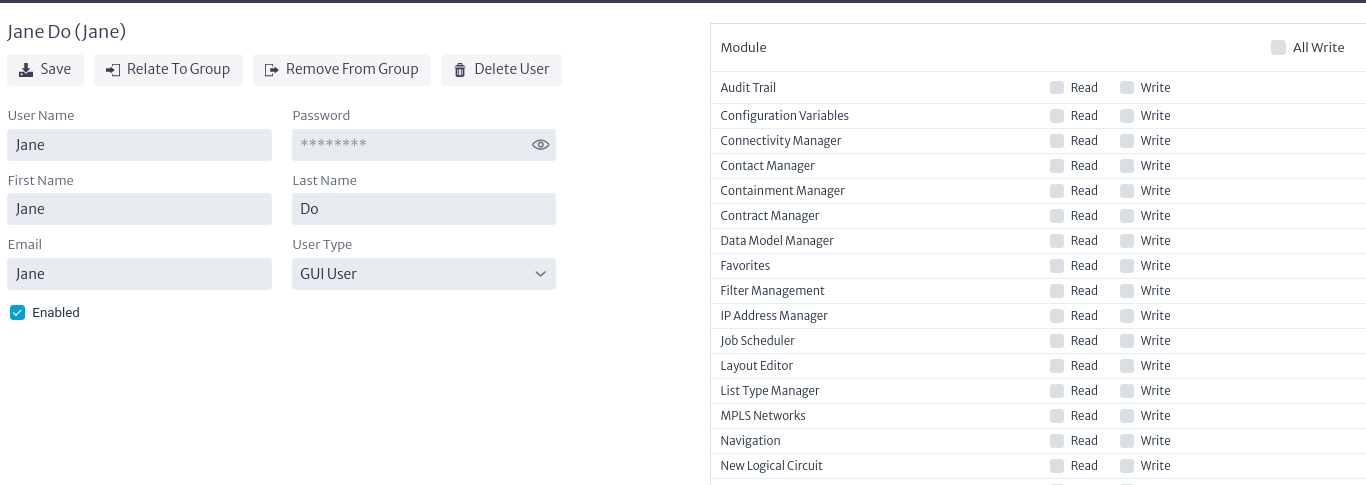
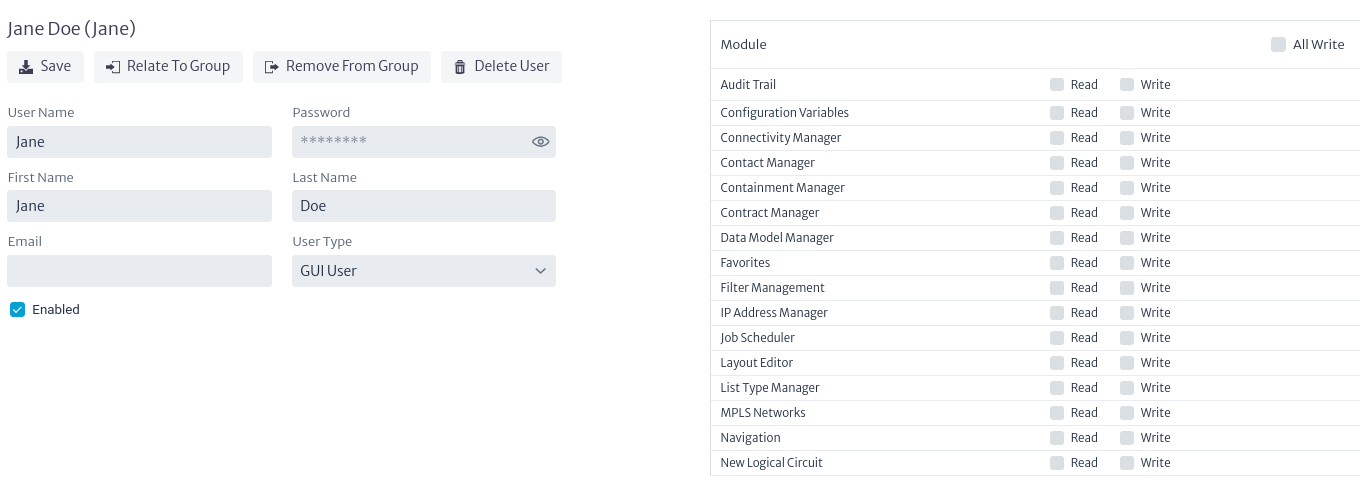
Fix titles in template manager and user manager modules, fix examples and types of user in user manager, add topology module to summary

diff --git a/user/en/src/userman/README.md b/user/en/src/userman/README.md
@@ -19,7 +19,7 @@ Groups allow for the aggregation of users to simplify their management and admin
 
 ### Groups Actions
 
-#### Create new groups
+#### Creating new groups
 
 To create a new group, use the![Template Module](images/btn_new_group.png)button in the main window of the module. This will open the group creation window, as shown in Figure 3. Here, you will need to enter the name and description of the group. It is advisable to use a descriptive name, as this will be the name displayed in the list of available groups.
 
@@ -34,7 +34,7 @@ Once created, the group will appear in the list of available groups within the a
 | ***Figure 4.** Group list* |
 
 
-#### Delete group
+#### Deleting groups
 To delete a group, use the![Btn Delete Groups](images/btn_delete_groups.png)button found in the group actions as shown in Figure 4. This will open the group deletion window in Figure 5. Click *OK* to proceed with deletion or *Cancel* to abort.
 > **Note** Users assigned exclusively to the group being deleted will also be removed unless they are assigned to other groups.
 
@@ -42,7 +42,7 @@ To delete a group, use the![Btn Delete Groups](images/btn_delete_groups.png)butt
 |:--:|
 | ***Figure 5.** Groups delete window* |
 
-#### Update Group
+#### Updating Groups
 To edit the properties of a group, use the![Btn Update Groups](images/btn_update_group.png)button found in the group actions as shown in Figure 4. This will open the edit window in Figure 6, where you can enter the new values. Click *OK* to update the group or *Cancel* if you decide not to proceed.
 
 |![Groups Update Window](images/userman_update_groups_window.png)|
@@ -51,7 +51,7 @@ To edit the properties of a group, use the![Btn Update Groups](images/btn_update
 
 ## Users
 ### Users Actions
-#### Create User
+#### Creating Users
 A user consists of the following properties: 
 
 | Property           | Description |
@@ -69,7 +69,7 @@ A user consists of the following properties:
 >- **GUI User**: Users that will access the system via desktop client or web interface.
 >- **Web Service Interface User**: Users that will access the system via web service.
 >- **Southbound Interface User**: Users that will access the system via automated interfaces, such as southbound interfaces or scheduled tasks.
->- **System**: Users that will make process in Kuwaiba.
+>- **System**: users used by application modules to automate tasks.
 >- **External application**: Users that will make process in externals applications.
 
 To create a new user, they must be assigned to a group. Use the![Btn UCreate User](images/btn_add_user.png)button to create and assign the user to the desired group. This will open the user creation window shown in Figure 7. Fill in the fields and click *OK* to proceed or *Cancel* to abort.
@@ -90,7 +90,7 @@ When selecting a user, the main module window will display the information, acti
 |:--:|
 | ***Figure 9.** User information* |
 
-#### Update User
+#### Updating Users
 To update user properties, modify them using the fields shown in Figure 9. Once the desired properties have been updated, use the![Btn Update User](images/btn_update_user.png)button to save the changes.
 
 #### Related User To Group
@@ -129,7 +129,7 @@ To quickly assign write privileges to a user across all modules, check the *All 
 > **Warning** 
 > When assigning permissions to inexperienced users, exercise caution with the modules to which you grant privileges; improper use can potentially corrupt the database.
 
-#### Delete User
+#### Deleting Users
 To delete a user, use the![Btn Delete User](images/btn_delete_user.png)button shown in Figure 9. This will open the confirmation window in Figure 15. In this window, click *OK* to delete the user. If you do not wish to proceed, click *Cancel*.
 > **Note** Deleting a user will also remove them from all assigned groups, so proceed with caution.
 

diff --git a/user/en/src/templateman/README.md b/user/en/src/templateman/README.md
@@ -40,7 +40,7 @@ It is possible to delete templates created for a class. To do so, use the button
 |:--:|
 | ***Figure 5.** Template delete window* |
 
-### Add Elements
+### Adding Elements
 You can add **elements** or **special elements** to templates. The elements that can be added are determined by the containment configuration of the class (see Containment Manager).
 
 To add **elements** to the template, use the ![Template Module Btn Add Elements](images/btn_add_template.png) button in the template actions shown in Figure 4. If you want to add **special elements**, use the ![Template Module Btn Add Special Elements](images/btn_add_special_elements.png) button. This will display the menu shown in Figure 6, where you must select whether you want to create a single element or multiple elements. If the class does not have any elements or special elements assigned in its containment, you will not be able to add elements of this type to the template.
@@ -137,4 +137,4 @@ For example, we use the *City* class and the previously created template *A samp
 
 | ![Example Object Created From Template](images/object_created_from_template.png) |
 |:--:|
-| ***Figure 20.** Example object created from template* |
+| ***Figure 20.** Sample object created from template* |

diff --git a/user/en/src/topology/README.md b/user/en/src/topology/README.md
@@ -215,14 +215,3 @@ To delete a topology, select it and use the ![Btn Remove](images/btn_remove.png)
 |![Delete Topology](images/topology_delete_view_window.png)|
 |:--:|
 | ***Figure 32.**delete topology window* |
-
-
-
-
-
-![](images/)
-
-
-|![](images/)|
-|:--:|
-| ***Figure .** Window create topology view* |

diff --git a/user/en/src/SUMMARY.md b/user/en/src/SUMMARY.md
@@ -34,6 +34,10 @@
 - [IP Address Manager](ipman/README.MD)
 <!-- - [New Logical Circuit](logical/new-logical-circuit/README.MD) -->
 
+# Planning
+
+- [Topology Designer](topology/README.md)
+
 # Settings
 
 - [Scheduling](scheduling/README.md)
